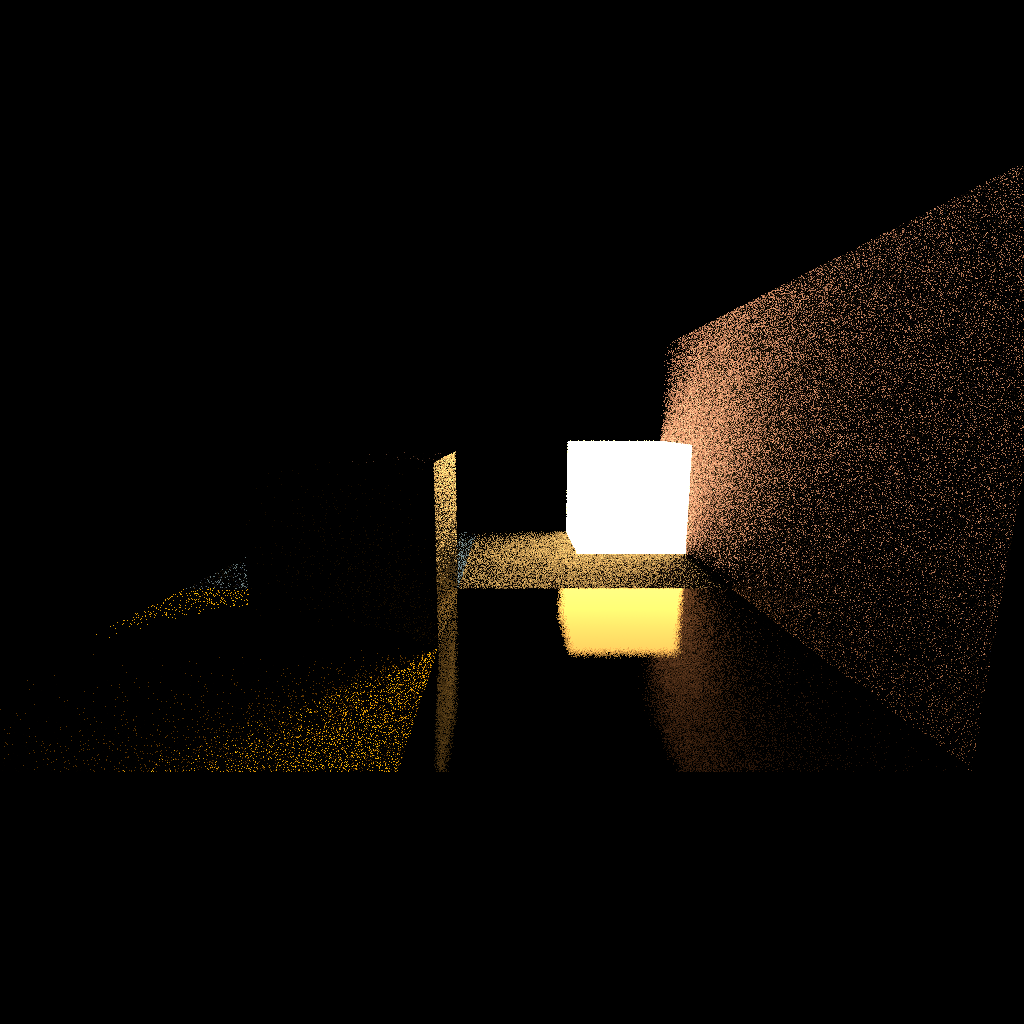
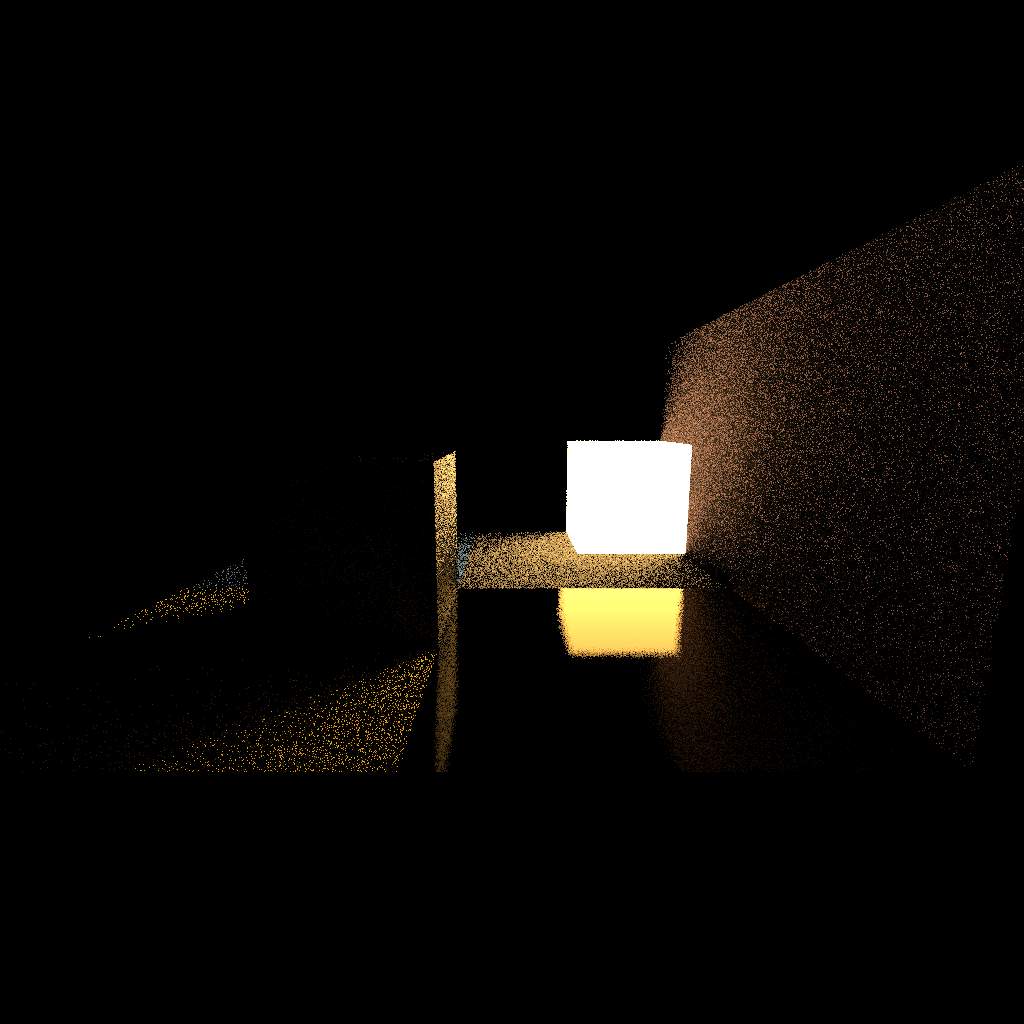
reduced stack

Changed region(s): [[0.1562, 0.1562, 1.0, 0.75], [0.1875, 0.5625, 0.25, 0.5938]]

diff --git a/src/bin.rs b/src/bin.rs
@@ -661,7 +661,7 @@ uint get_voxel_child(uint voxelptr, uint childindex){
     }
 }
 
-const uint stacksize = 16;
+const uint stacksize = 3;
 
 struct StackFrame {
     vec3 location;
